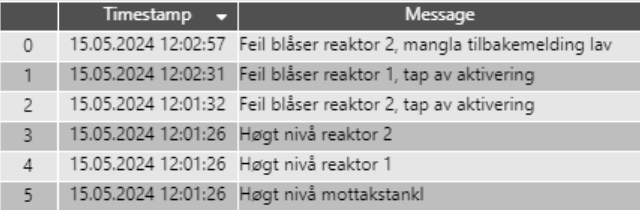
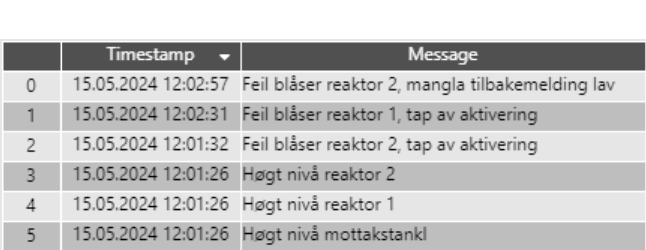
Lagt til bilde i 8.4 for alarmlogg

diff --git a/Latex1/Tekst/Kapittel8 - Programmering/8.6 - Alarmhandtering.tex b/Latex1/Tekst/Kapittel8 - Programmering/8.6 - Alarmhandtering.tex
@@ -35,5 +35,14 @@ Ved å kategorisere varslingar i fire ulike grupper med forskjellige prioriterin
 vil systemet og driftspersonalet enklare kunne forstå samanhengen og alvoret i varslingane. \newline
 Korleis dei ulike alarmane blir definert og prioriterte må evaluerast i samråd med \gls{Sunnfjord Kommune}.
 
+
+
+
+\begin{figure}[htbp]
+    \centering
+    \includegraphics[width=0.4\textwidth]{Bilder/Alarmeksempel.png}
+    \caption{Eksempel på alarmlogg}\label{fig:Alarmlogg}
+\end{figure}
+
 \newpage
 
